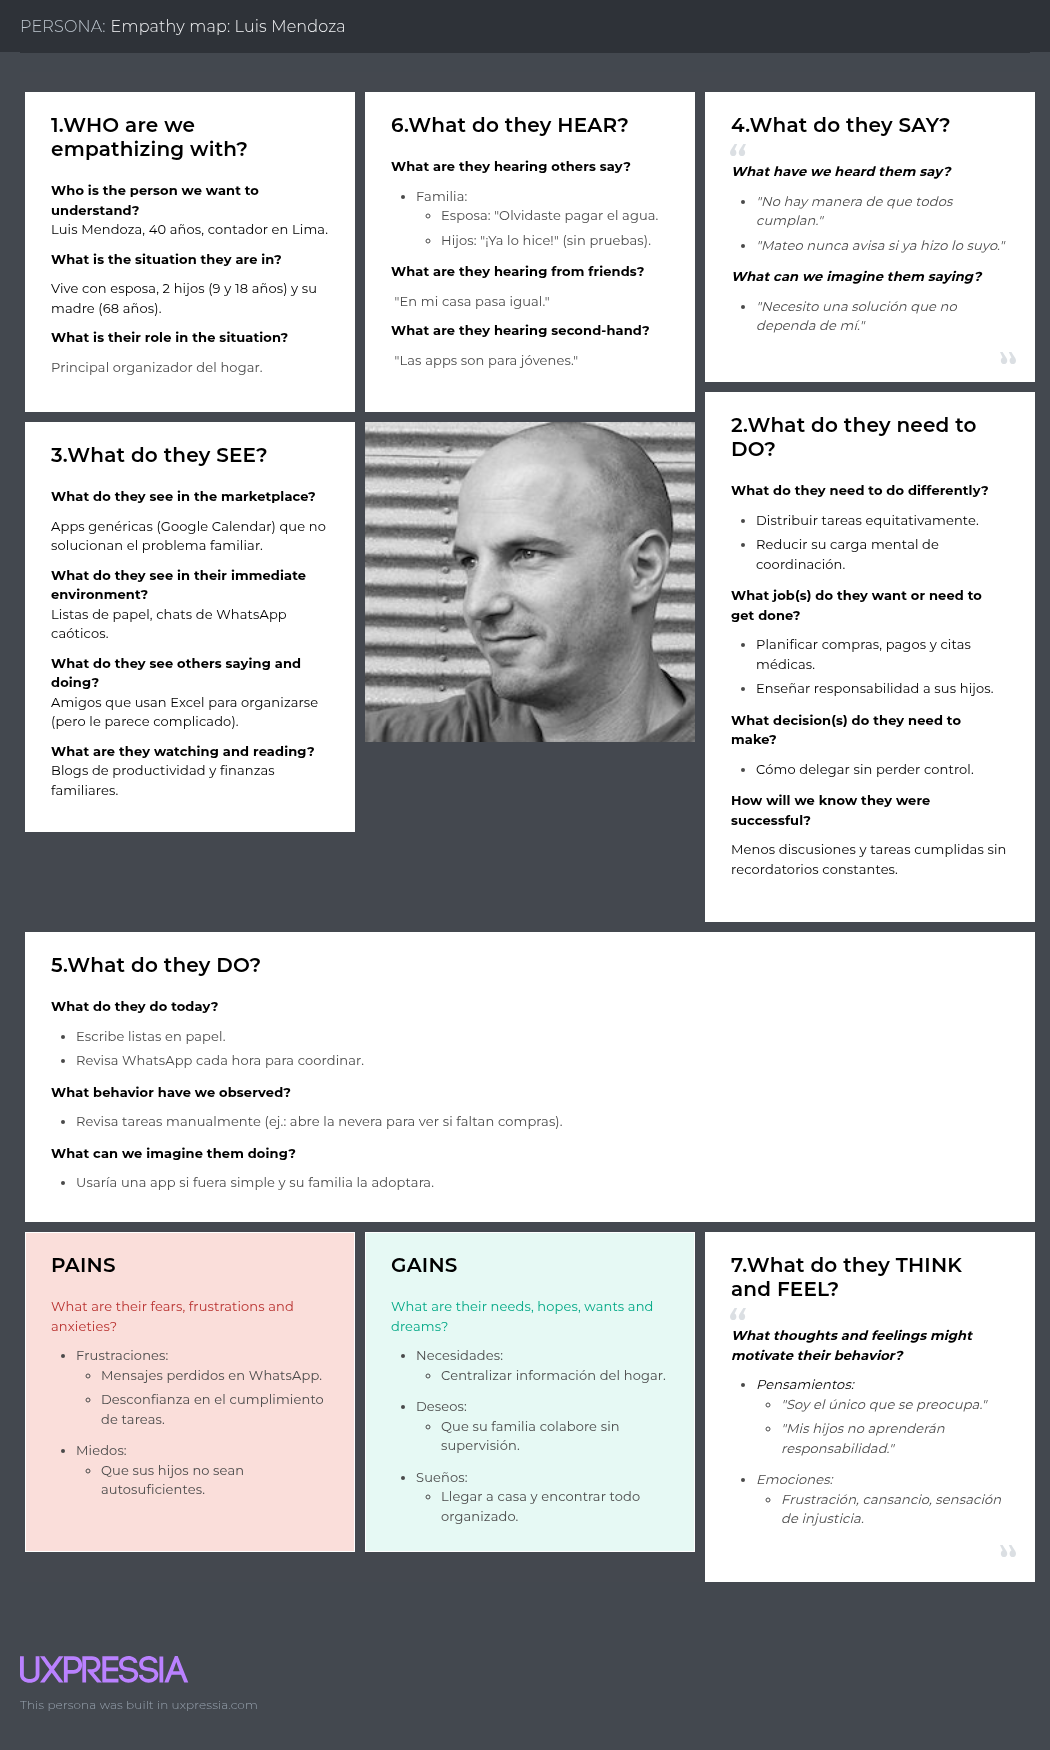
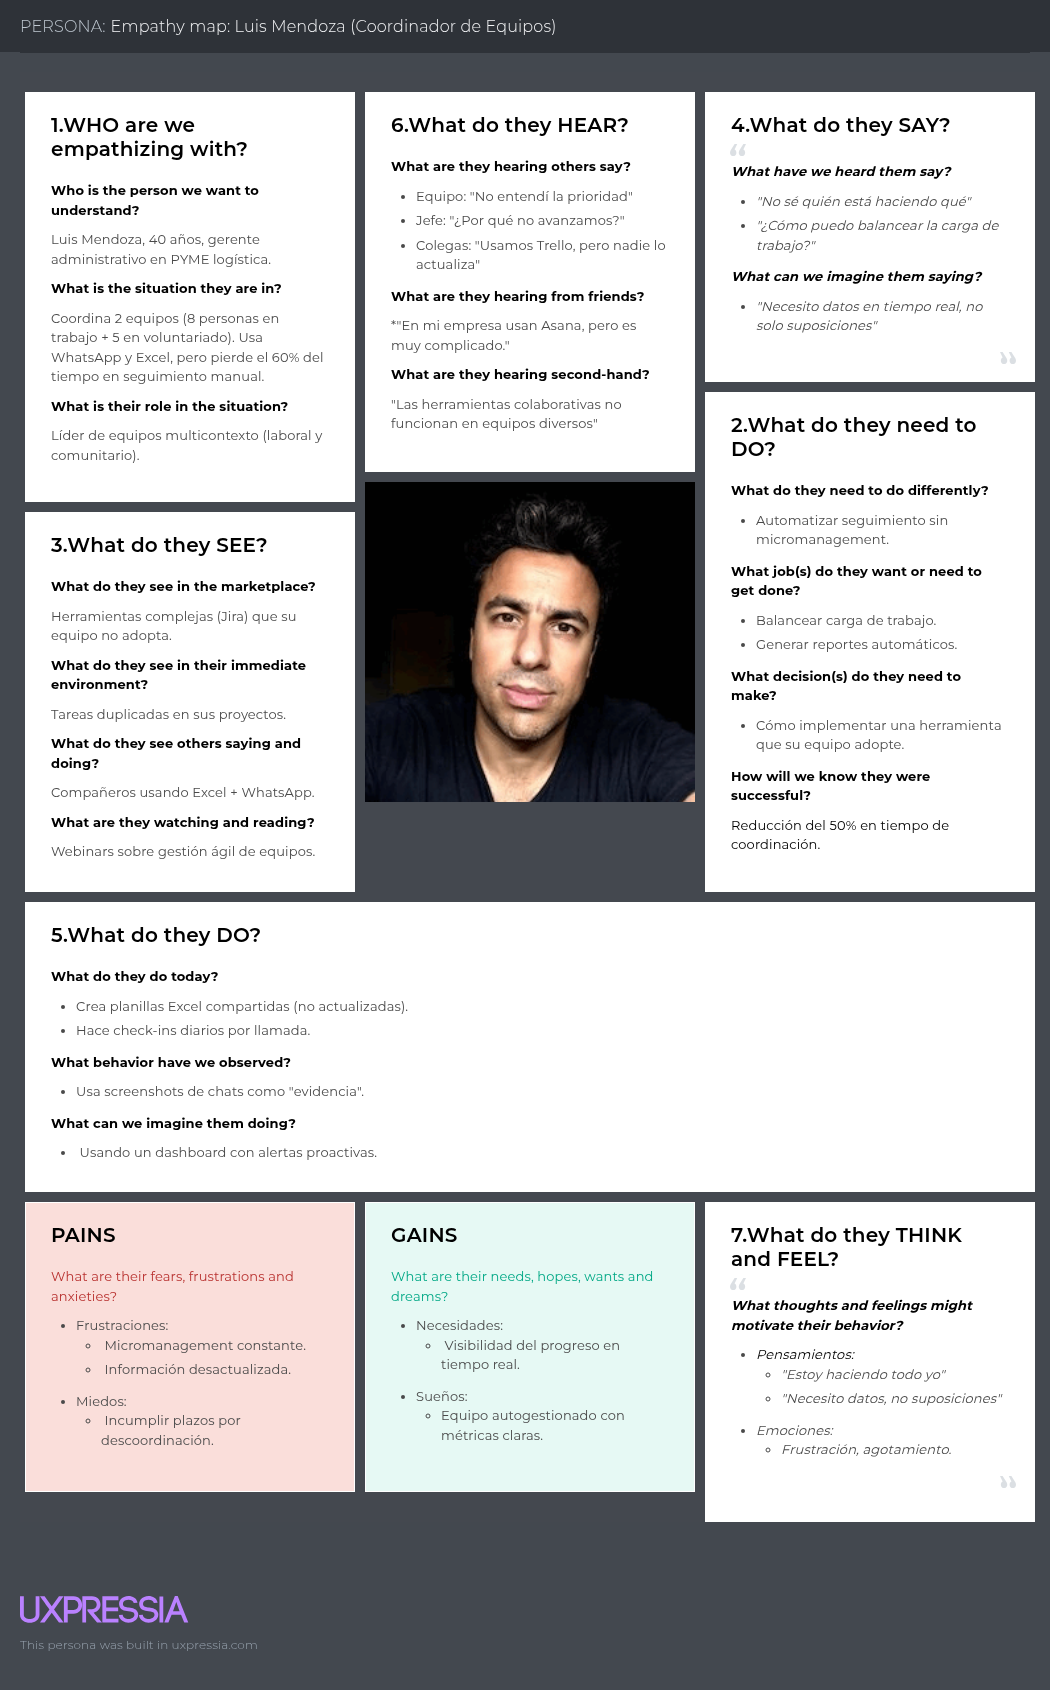
fix(empathy-mapping): fix empathy mapping with new user personas.

Changed region(s): [[0.0, 0.0615, 1.0, 0.8923], [0.6705, 0.8615, 0.9752, 0.9231], [0.0305, 0.9231, 0.1829, 0.9846]]

diff --git a/README.md b/README.md
@@ -485,10 +485,10 @@ En esta sección, se presenta el mapa de viaje del usuario, que ilustra las etap
 
 En esta sección, se presenta el mapa de empatía, que nos ayudará a comprender mejor las emociones, pensamientos y necesidades de nuestros usuarios. Este mapa es una herramienta valiosa para identificar oportunidades de mejora en la experiencia del usuario.
 
-**1. Empathy Map: Encargado o Cabeza de la Familia**
+**1. Empathy Map: Coordinador de equipos**
 <img src="images/chapter-2/EMPMAP1.png" alt="Empathy Map 1" />
 
-**2. Empathy Map: Integrante de la Familia**
+**2. Empathy Map: Miembro de equipo**
 <img src="images/chapter-2/EMPMAP2.png" alt="Empathy Map 2" />
 
 #### 2.3.5. As-is Scenario Mapping
